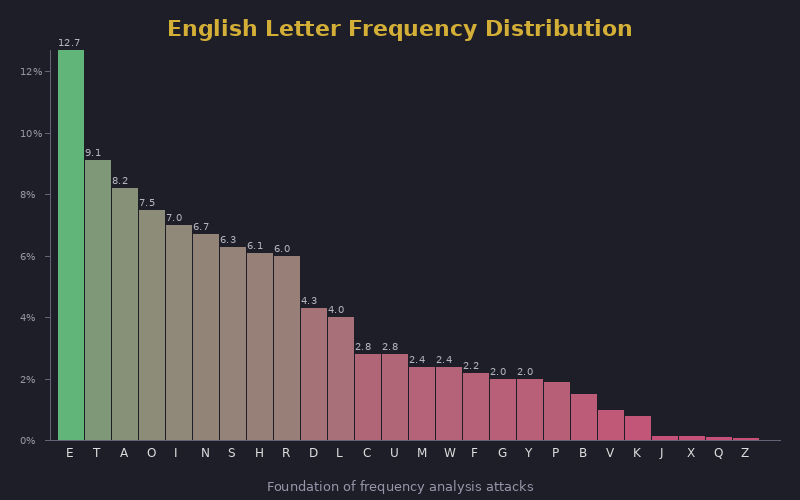
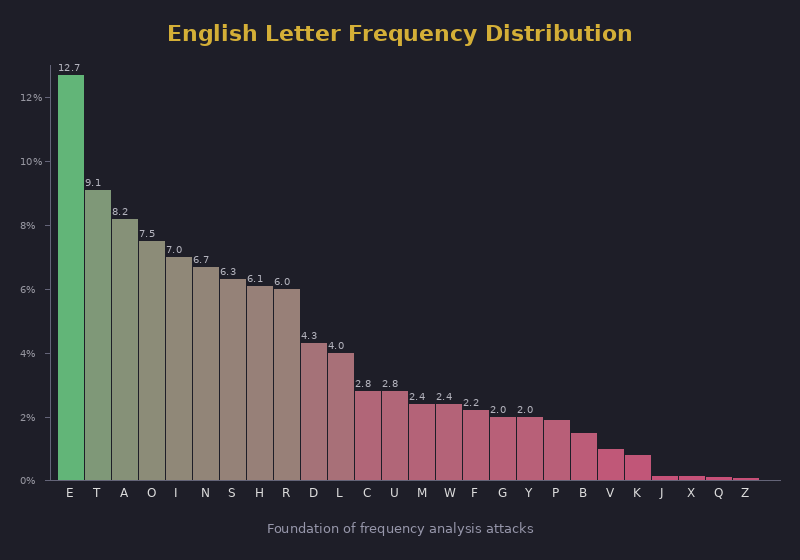
Fix frequency chart: more padding at top/bottom, no text overlap

diff --git a/scripts/generate-images.py b/scripts/generate-images.py
@@ -49,13 +49,13 @@ def draw_rounded_rect(draw, xy, fill, radius=10):
 
 # 1. Letter Frequency Chart
 def make_frequency_chart():
-    img = Image.new('RGB', (W, H), BG)
+    img = Image.new('RGB', (W, 560), BG)
     draw = ImageDraw.Draw(img)
     title_font = get_bold_font(22)
     label_font = get_font(12)
     val_font = get_font(10)
 
-    text_center(draw, "English Letter Frequency Distribution", 15, title_font, GOLD)
+    text_center(draw, "English Letter Frequency Distribution", 20, title_font, GOLD)
 
     freqs = {'E':12.7,'T':9.1,'A':8.2,'O':7.5,'I':7.0,'N':6.7,'S':6.3,'H':6.1,
              'R':6.0,'D':4.3,'L':4.0,'C':2.8,'U':2.8,'M':2.4,'W':2.4,'F':2.2,
@@ -63,15 +63,15 @@ def make_frequency_chart():
              'Q':0.10,'Z':0.07}
 
     margin_left = 50
-    margin_bottom = 60
-    chart_w = W - margin_left - 30
-    chart_h = H - 100
-    bar_w = chart_w // 26 - 2
+    margin_bottom = 80
+    top_y = 65
+    chart_h = 560 - top_y - margin_bottom
+    bar_w = (W - margin_left - 30) // 26 - 2
     max_freq = 13.0
-    base_y = H - margin_bottom
+    base_y = 560 - margin_bottom
 
     # Y axis
-    draw.line([(margin_left, 50), (margin_left, base_y)], fill=(100,100,120), width=1)
+    draw.line([(margin_left, top_y), (margin_left, base_y)], fill=(100,100,120), width=1)
     for tick in range(0, 14, 2):
         y = base_y - int((tick / max_freq) * chart_h)
         draw.line([(margin_left - 5, y), (margin_left, y)], fill=(100,100,120))
@@ -92,7 +92,7 @@ def make_frequency_chart():
 
     # X axis
     draw.line([(margin_left, base_y), (W - 20, base_y)], fill=(100,100,120), width=1)
-    text_center(draw, "Foundation of frequency analysis attacks", H - 22, get_font(13), (150,150,170))
+    text_center(draw, "Foundation of frequency analysis attacks", 560 - 40, get_font(13), (150,150,170))
 
     img.save(os.path.join(OUT, 'cryptanalysis-letter-frequency-chart.png'))
     print("  Created: cryptanalysis-letter-frequency-chart.png")
